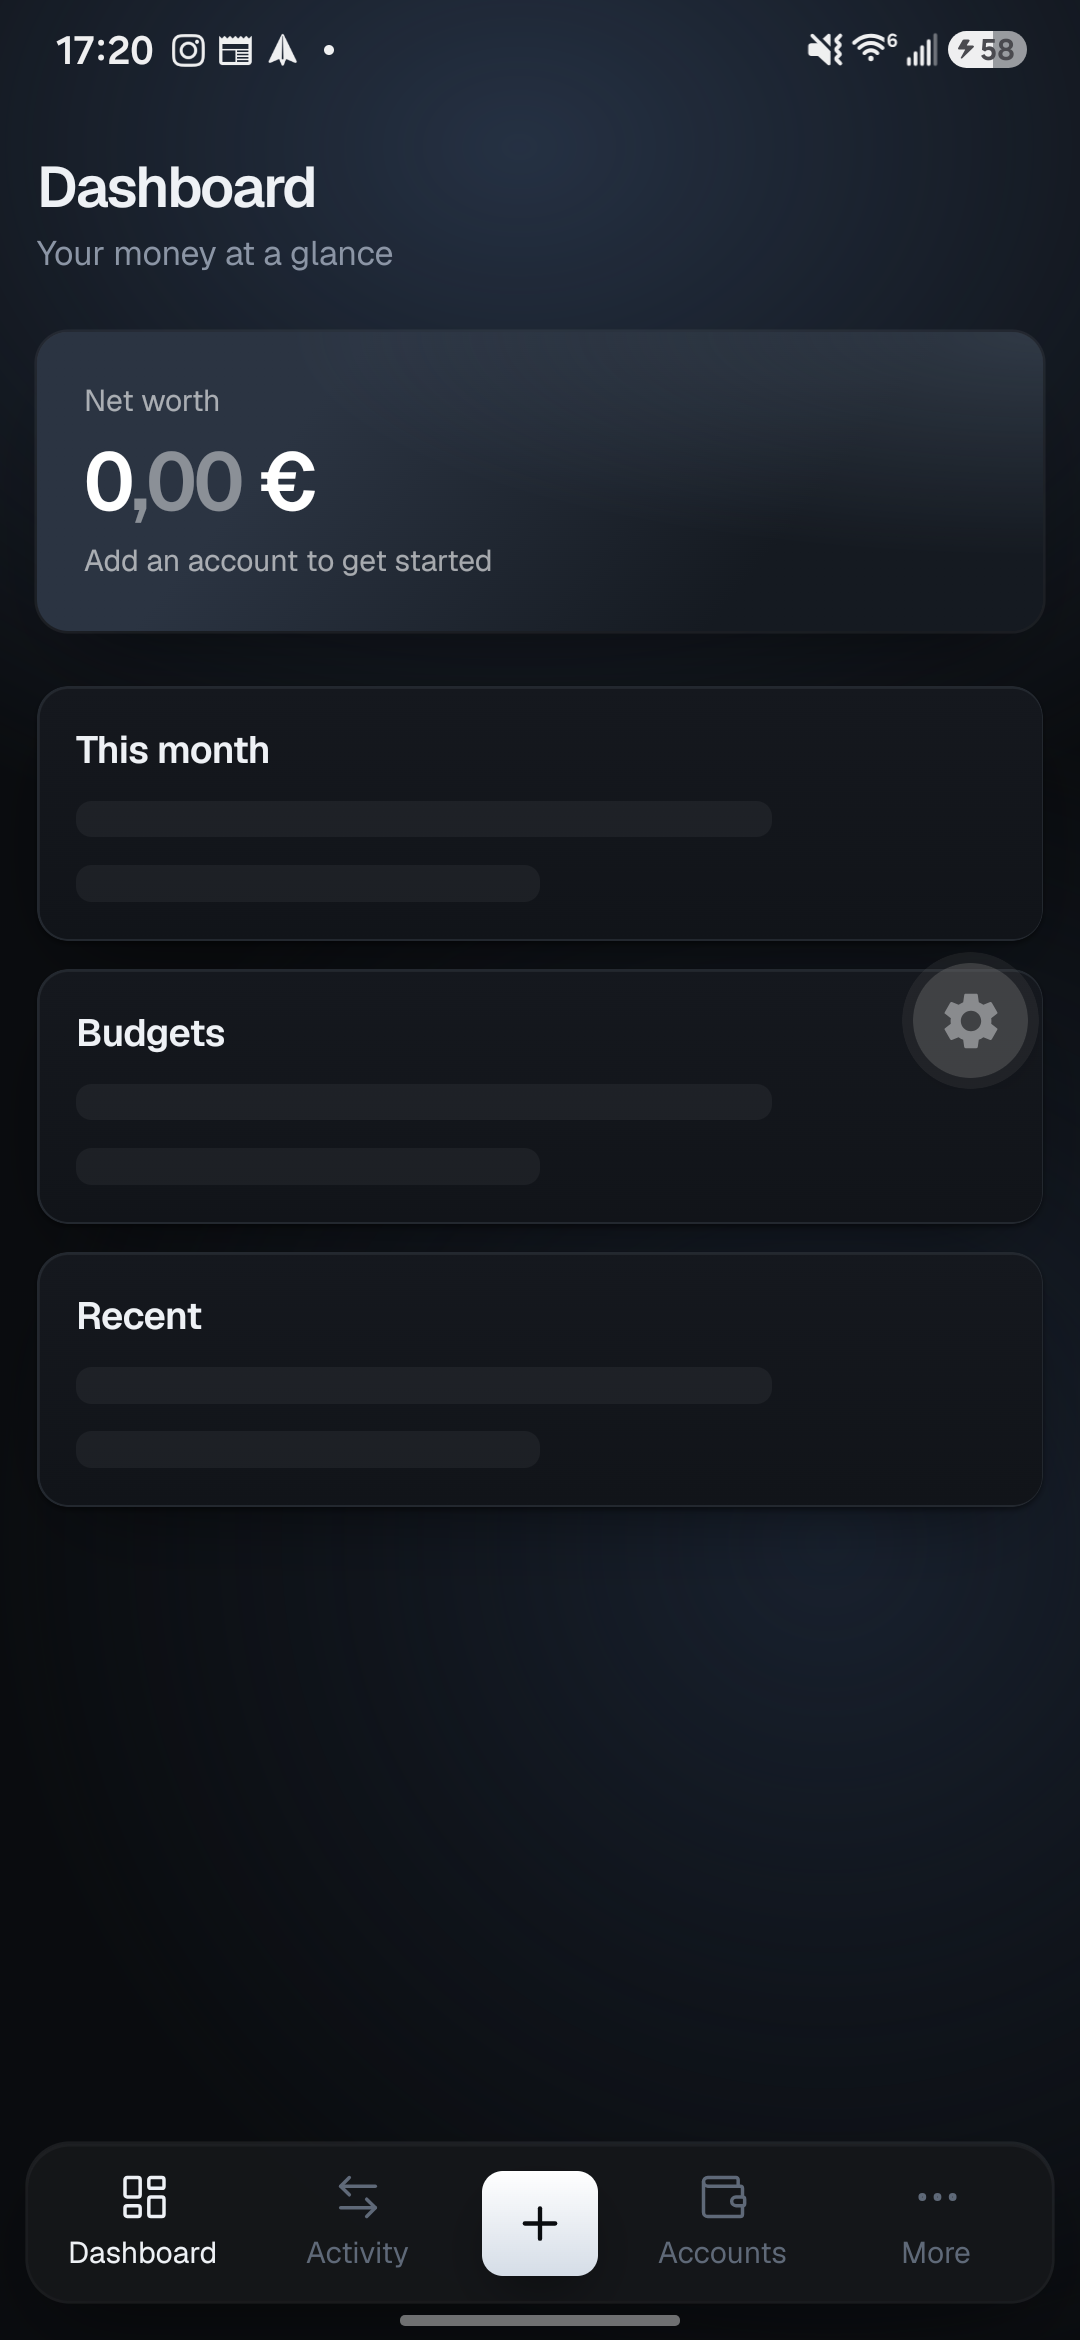
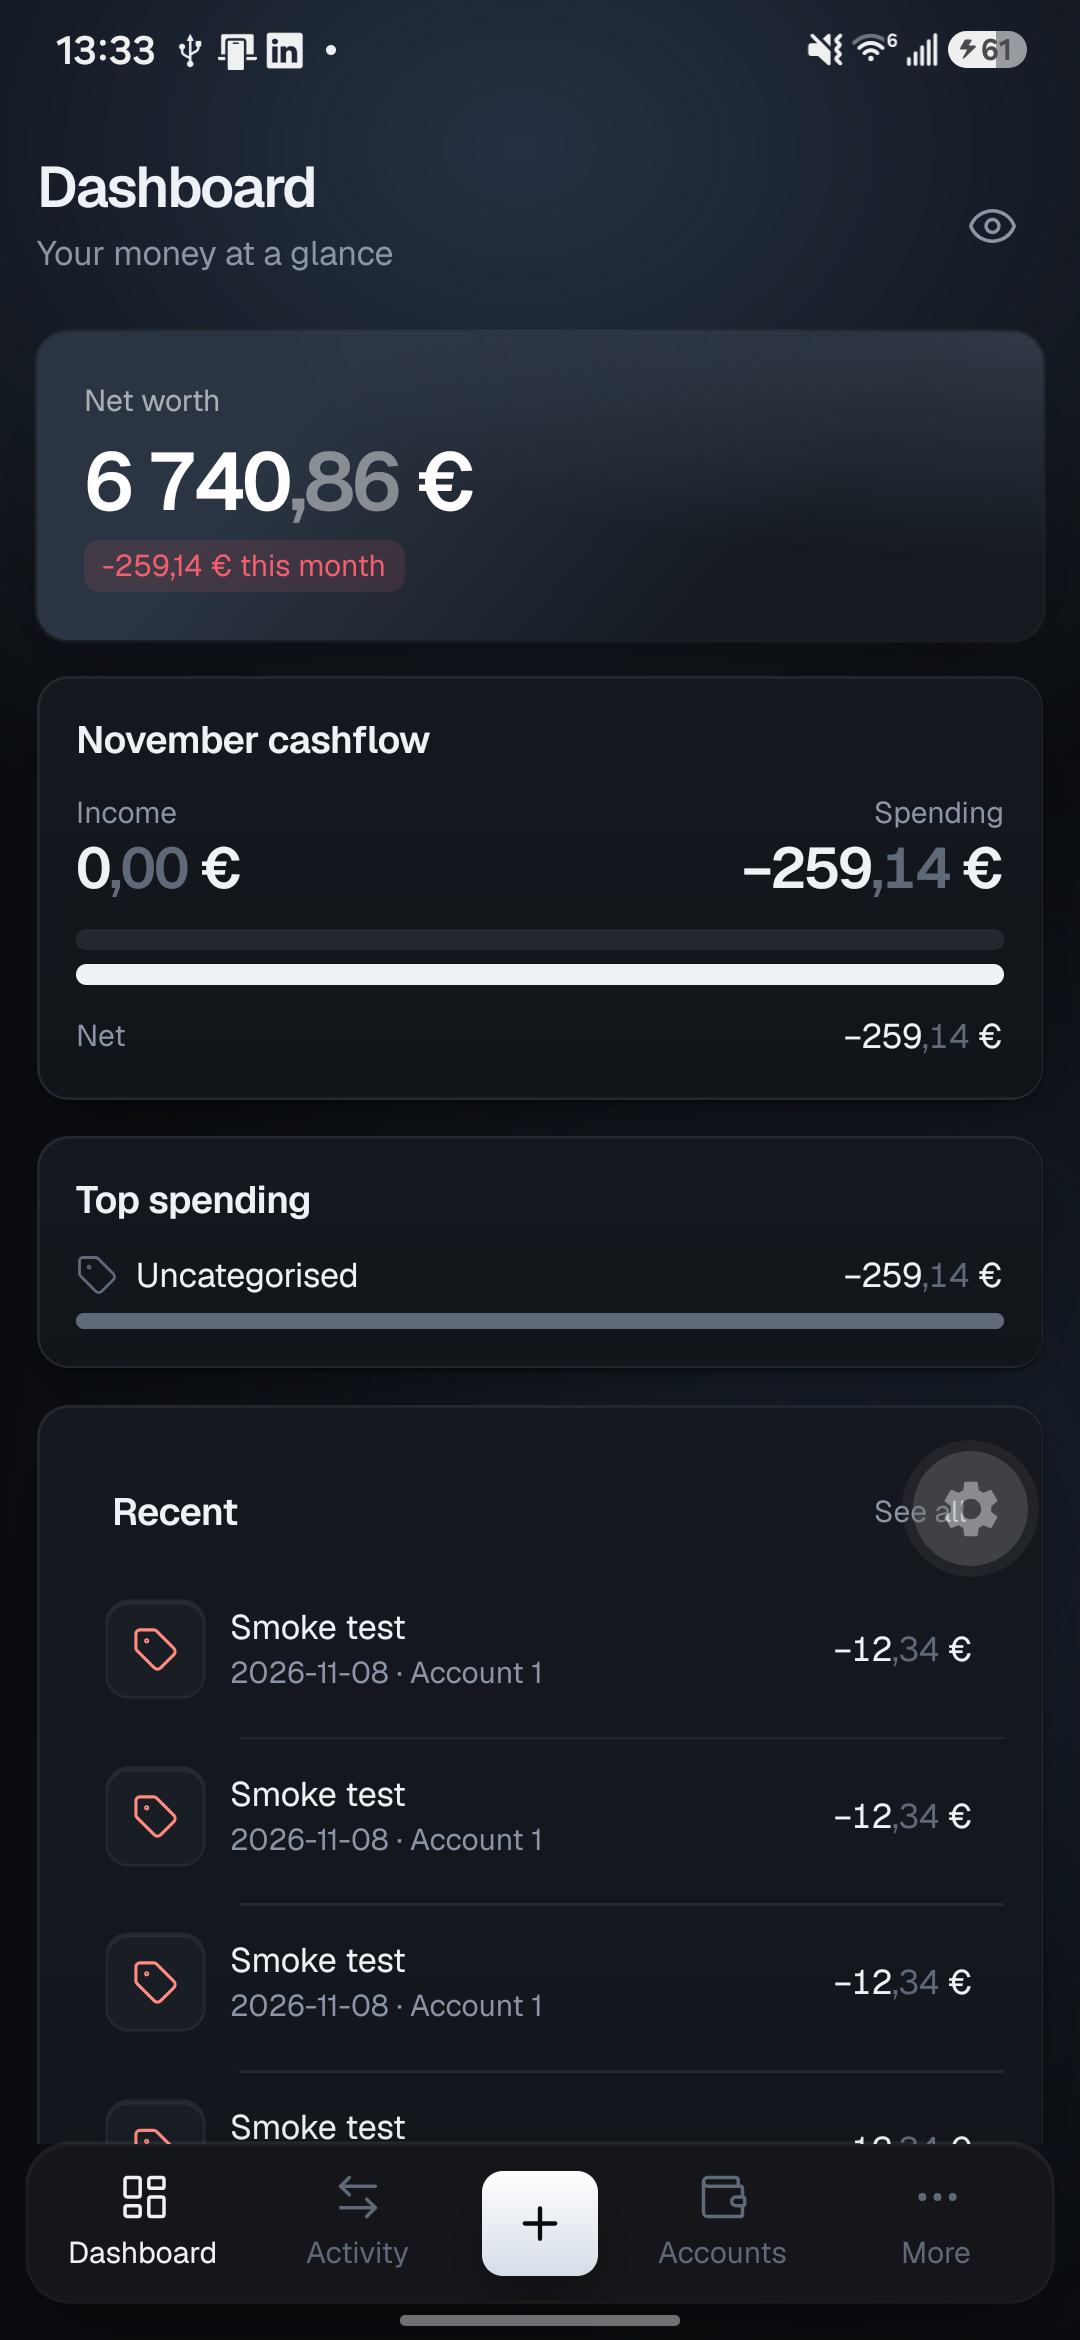
fix(app): Android verification round - sheet back button and keyboard, month chip colour
Found while running P2 on a real Android phone (Expo Go): the hardware back button navigated behind
an open sheet instead of closing it, and the keyboard covered the fields of sheets (PIN setup, tags).
Sheet now closes on back and avoids the keyboard. The dashboard month chip is red for a negative net
instead of green. Dashboard "See all" is a quiet link. Adds Android light and dark screenshots
(dashboard, accounts, transactions, add flow, settings).

Checked on device: app opens, add flow, lock screen (cold start, wrong and right PIN, turn off
with PIN), privacy eye, light and dark.

diff --git a/apps/app/src/dashboard/Dashboard.tsx b/apps/app/src/dashboard/Dashboard.tsx
@@ -23,7 +23,7 @@ import {
 import { useRouter } from "expo-router";
 import { ArrowLeftRight, CircleCheck, PiggyBank, Receipt } from "lucide-react-native";
 import { type ReactNode, useMemo } from "react";
-import { View } from "react-native";
+import { Pressable, View } from "react-native";
 import { categoryTint } from "../categories/color";
 import { categoryIcon } from "../categories/icons";
 import {
@@ -116,7 +116,8 @@ function NetWorth({ range }: { range: { from: string; to: string } }) {
           return (
             <Chip
               key={f.currency}
-              onHero
+              onHero={net >= 0}
+              tone={net >= 0 ? "positive" : "negative"}
               label={`${hidden ? "••••" : `${net >= 0 ? "+" : ""}${formatAmount({ amount: net, currency: f.currency })}`} this month`}
             />
           );
@@ -263,7 +264,16 @@ function Recent() {
     <Card className="gap-1 p-0 tablet:p-0">
       <View className="flex-row items-center justify-between px-4 pt-4 pb-2 tablet:px-5">
         <Text variant="title">Recent</Text>
-        <Button label="See all" variant="ghost" onPress={() => router.push("/transactions")} />
+        <Pressable
+          accessibilityRole="link"
+          onPress={() => router.push("/transactions")}
+          hitSlop={8}
+          className="py-1 web:cursor-pointer web:outline-none web:hover:opacity-70 active:opacity-60"
+        >
+          <Text variant="small" weight="medium" tone="muted">
+            See all
+          </Text>
+        </Pressable>
       </View>
       {recent.isPending ? (
         <View className="gap-3 px-4 pb-4">

diff --git a/packages/ui/src/components/Sheet.tsx b/packages/ui/src/components/Sheet.tsx
@@ -1,5 +1,12 @@
 import { type ReactNode, useEffect } from "react";
-import { Platform, Pressable, ScrollView, View } from "react-native";
+import {
+  BackHandler,
+  KeyboardAvoidingView,
+  Platform,
+  Pressable,
+  ScrollView,
+  View,
+} from "react-native";
 import {
   Easing,
   FadeIn,
@@ -41,6 +48,16 @@ export function Sheet({ visible, onClose, title, children }: SheetProps) {
     return () => document.removeEventListener("keydown", onKey);
   }, [visible, onClose]);
 
+  // Android back button closes the topmost sheet instead of navigating behind it.
+  useEffect(() => {
+    if (!visible || Platform.OS !== "android") return;
+    const sub = BackHandler.addEventListener("hardwareBackPress", () => {
+      onClose();
+      return true;
+    });
+    return () => sub.remove();
+  }, [visible, onClose]);
+
   if (!visible) return null;
 
   const enter = desktop
@@ -56,7 +73,9 @@ export function Sheet({ visible, onClose, title, children }: SheetProps) {
 
   return (
     <Portal>
-      <View
+      <KeyboardAvoidingView
+        behavior="padding"
+        enabled={Platform.OS !== "web"}
         className={cn(
           "absolute inset-0 z-50",
           desktop ? "items-center justify-center" : "justify-end",
@@ -107,7 +126,7 @@ export function Sheet({ visible, onClose, title, children }: SheetProps) {
             </ScrollView>
           </GlassSurface>
         </AnimatedView>
-      </View>
+      </KeyboardAvoidingView>
     </Portal>
   );
 }
